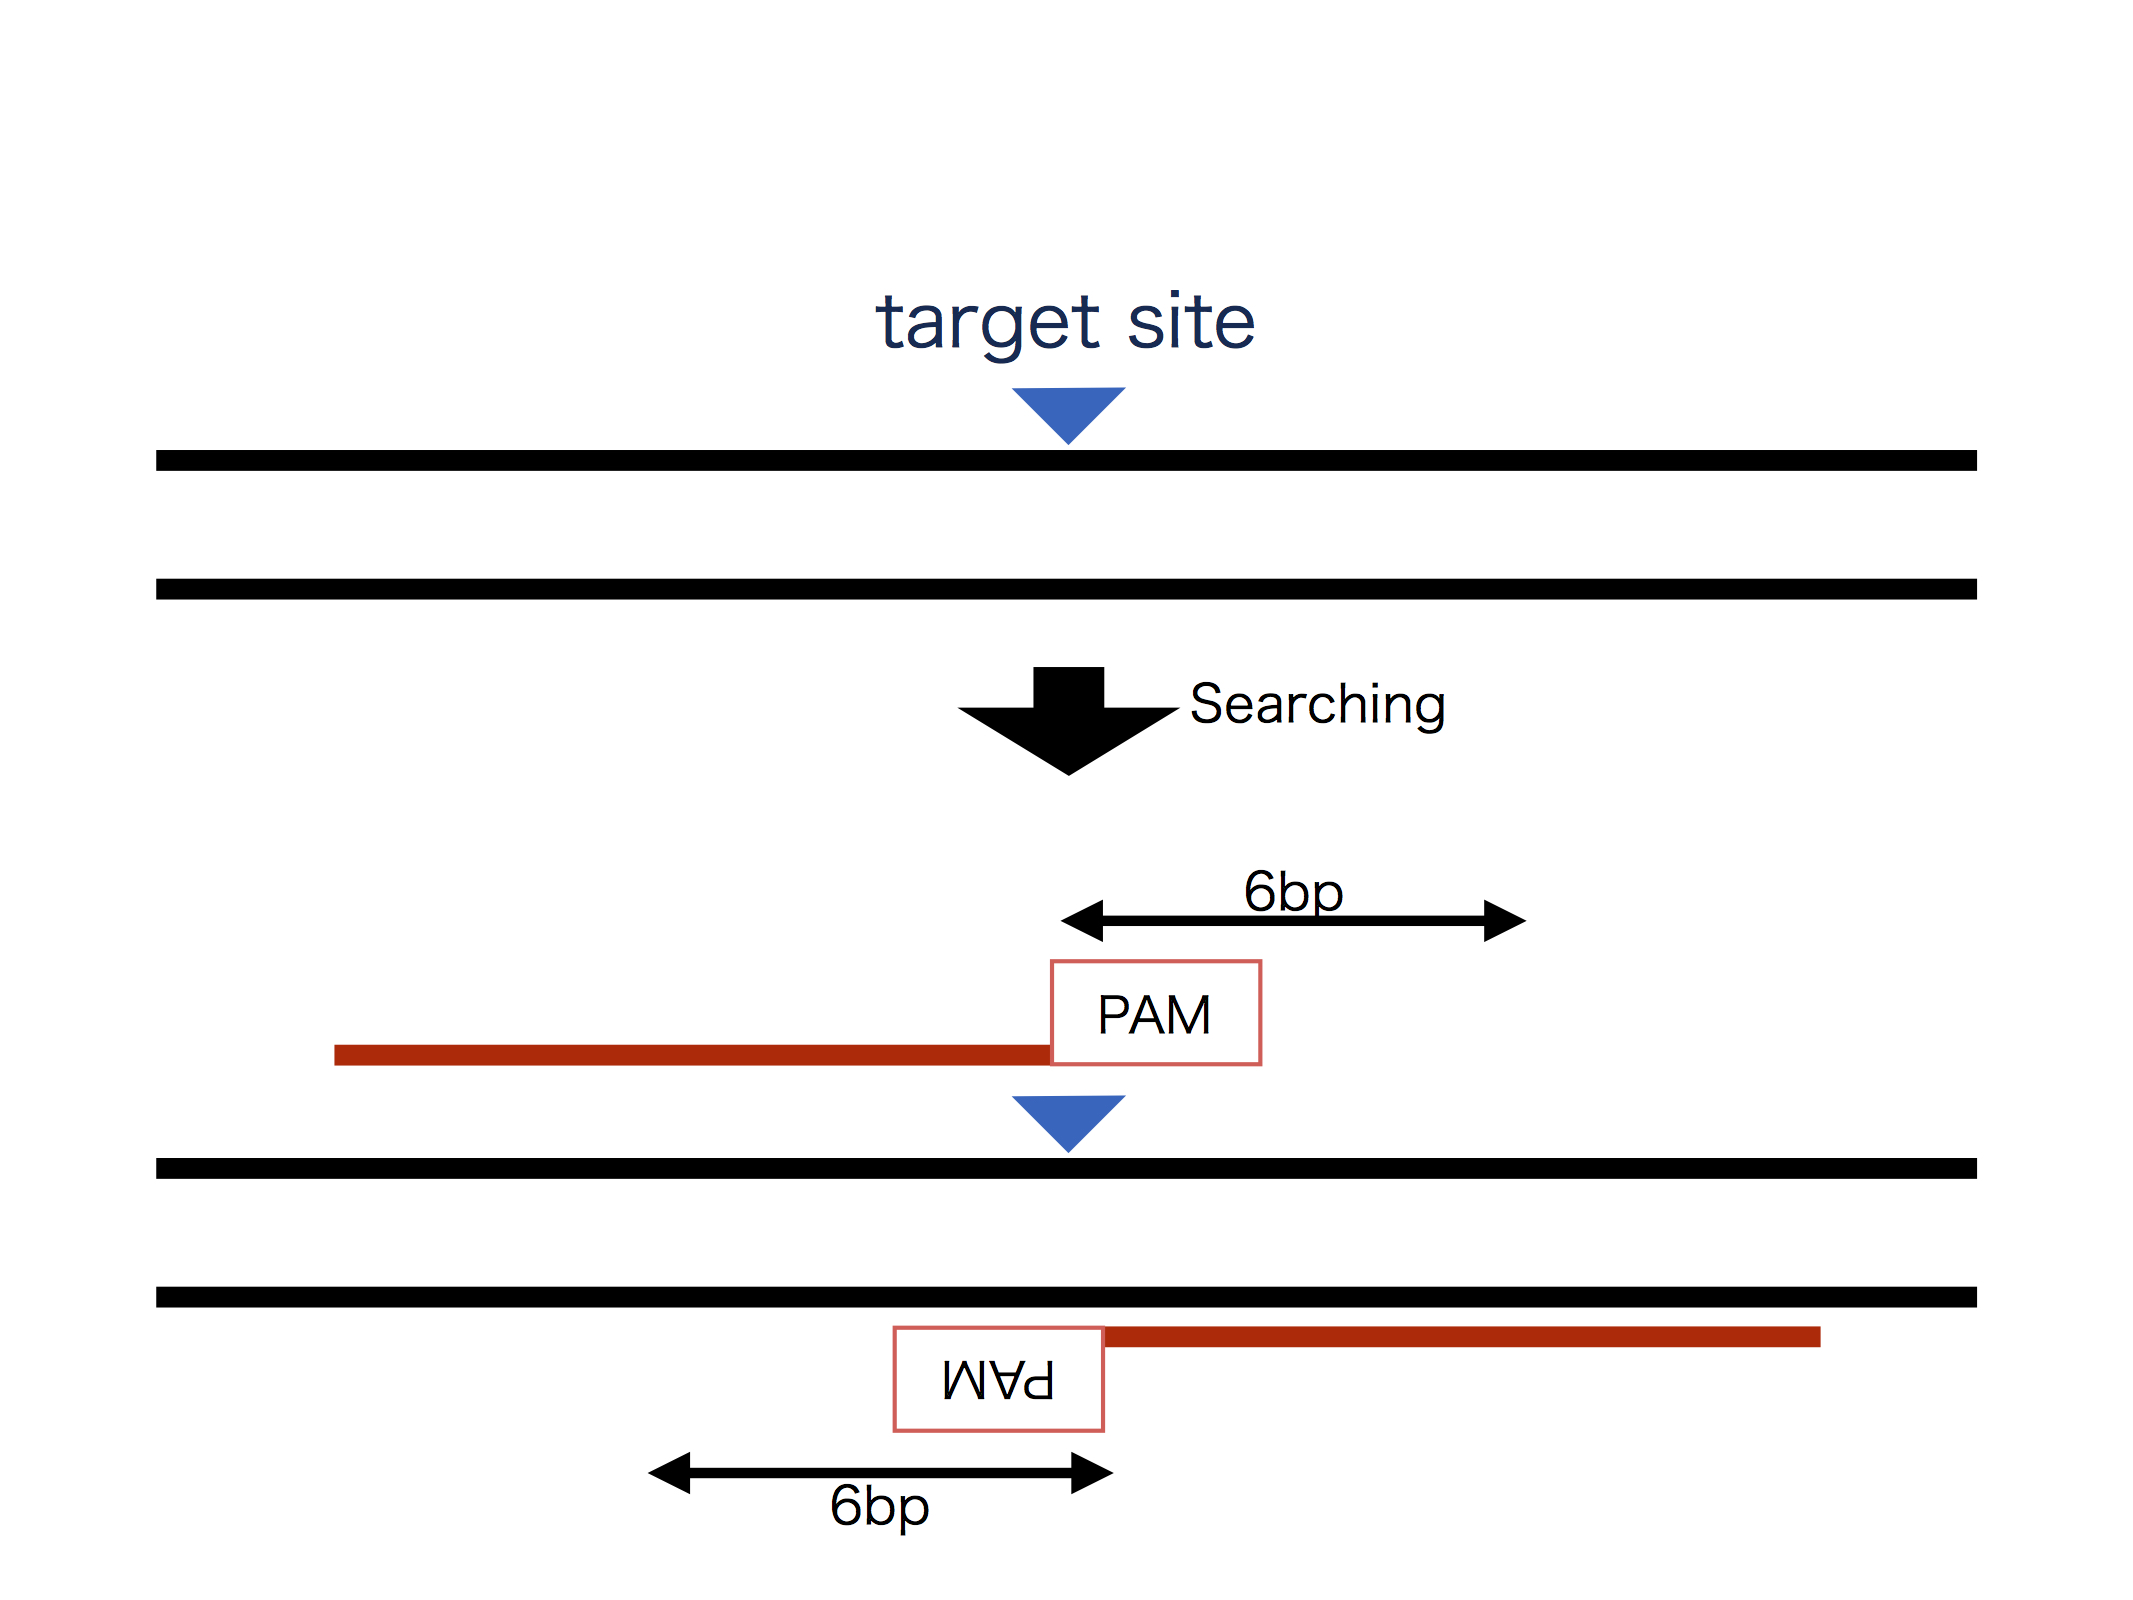
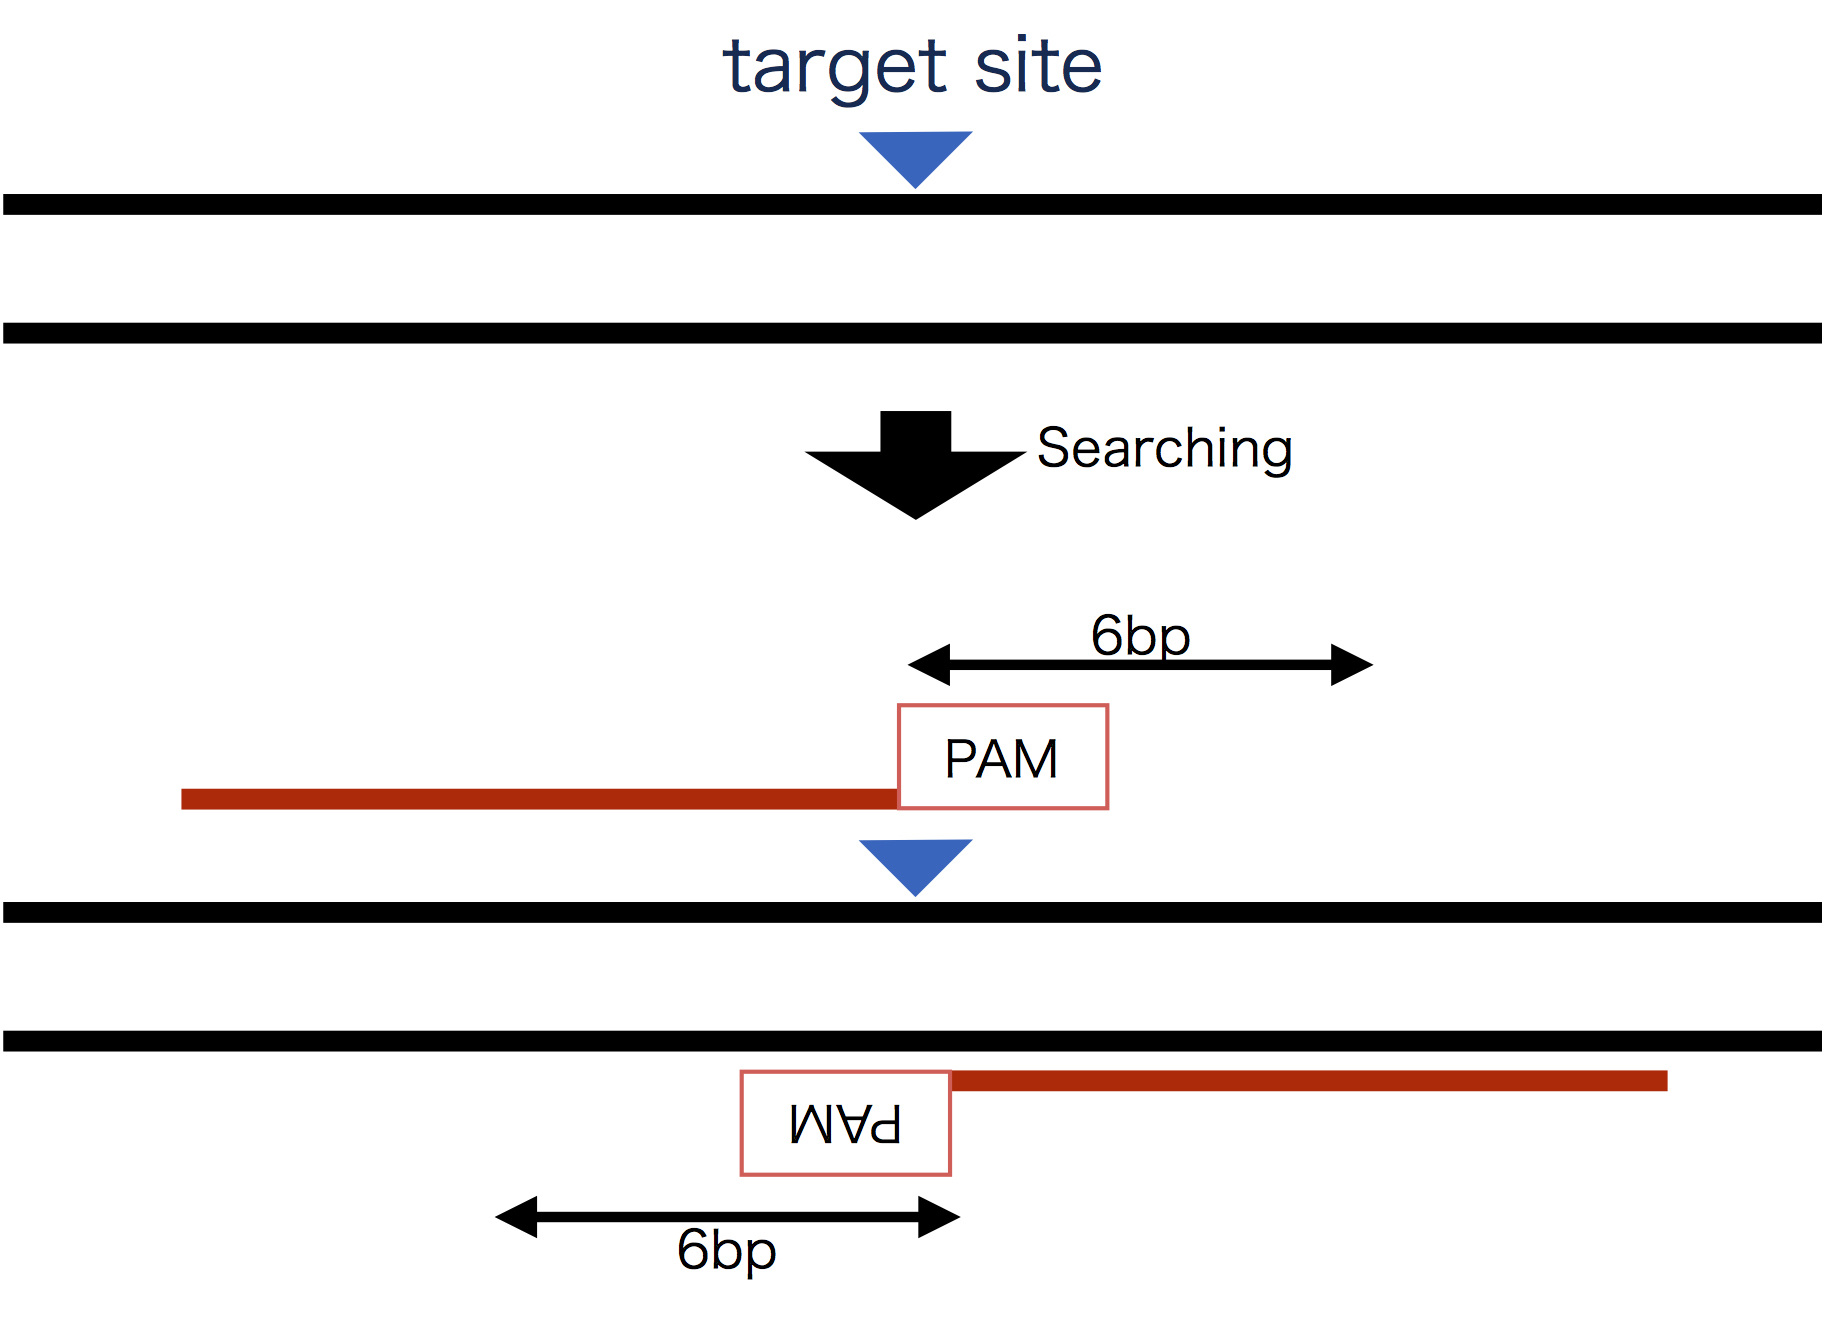
update README

Changed region(s): [[0.0, 0.031, 1.0, 0.7438], [0.0, 0.7748, 1.0, 0.9607], [0.2766, 0.8987, 0.3381, 0.9297]]

diff --git a/KnockIn.js/README.md b/KnockIn.js/README.md
@@ -122,4 +122,4 @@ Arguments:
 
 ####Design Algorithm
 
-![simpleexample_result](https://github.com/Kazuki-Nakamae/public/blob/master/KnockIn.js/images/simpleresult.jpg "simpleresult")
+![searchgrna](https://github.com/Kazuki-Nakamae/public/blob/master/KnockIn.js/images/searchgrna.jpg "searchgrna")
